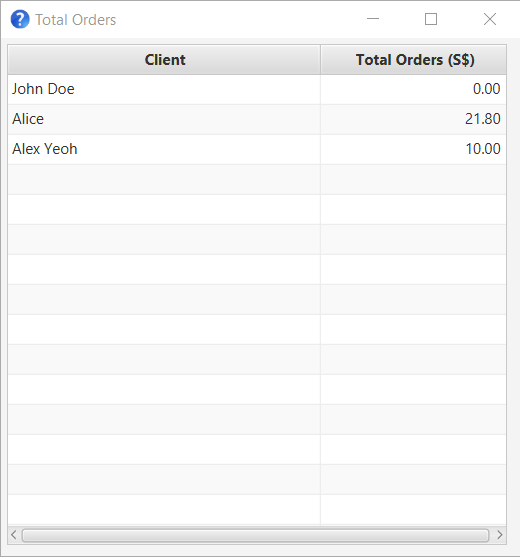
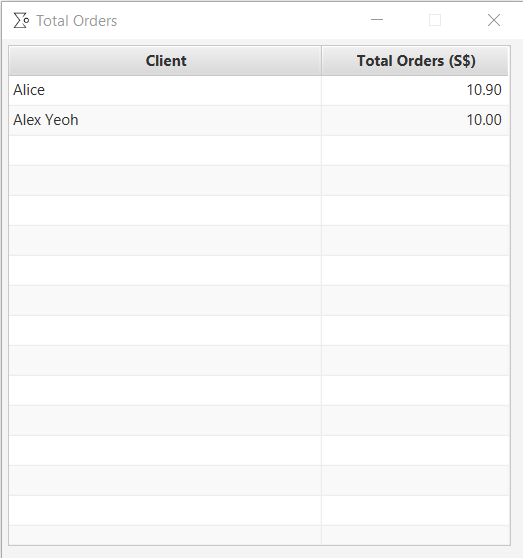
Update screenshot of TotalOrdersWindow, mention rerun command to refresh

Changed region(s): [[0.0, 0.0, 1.0, 1.0]]

diff --git a/docs/UserGuide.md b/docs/UserGuide.md
@@ -408,8 +408,7 @@ Examples:
 Shows the total orders for each client in the application.
 
 <div markdown="block" class="alert alert-info">
-:information_source: The total orders displayed are based on the clients in the application.
-If the customer of an order cannot be found among the clients, the order will not be shown.
+:information_source: After adding/deleting orders, you might want to run this command again to refresh the window.
 </div>
 
 ![TotalOrdersWindow](images/TotalOrdersWindow.png)
